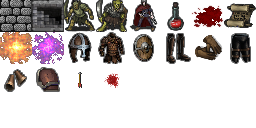
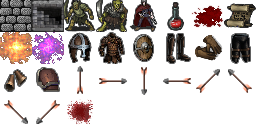
Fixed some bugs with projectile animations

diff --git a/components/fighter.py b/components/fighter.py
@@ -215,8 +215,8 @@ class Fighter:
     @property
     def effects_with_resistance_multiplier_modifiers(self):
         return [
-            effect for effect in self.status_effects
-            if effect.modifiers and effect.modifiers.get("resistance_multiplier_modifiers", {})
+            effect for effect in self.status_effects if effect.modifiers
+            and effect.modifiers.get("resistance_multiplier_modifiers", {})
         ]
 
     @property
@@ -263,7 +263,6 @@ class Fighter:
         return self.base_melee_cth_multiplier + modifier + self.calculate_effect_modifiers(
             "melee_chance_to_hit_multiplier_modifier")
 
-
     @property
     def ranged_chance_to_hit_modifier(self) -> int:
         if self.owner and self.owner.equipment:
@@ -302,8 +301,8 @@ class Fighter:
     def critical_hit_damage_multiplier(self) -> float:
         if self.owner and self.owner.equipment:
             modifier = (
-                self.luck["attribute_modifier"] *
-                0.05) + self.owner.equipment.critical_hit_damage_multiplier_modifier
+                self.luck["attribute_modifier"] * 0.05
+            ) + self.owner.equipment.critical_hit_damage_multiplier_modifier
         else:
             modifier = (self.luck["attribute_modifier"] * 0.05)
         return self.base_critical_hit_damage_multiplier + modifier + self.calculate_effect_modifiers(
@@ -479,8 +478,7 @@ class Fighter:
         armor = int(round(armor * self.armor_multiplier))
 
         # Prevent armor from going below zero, negative armor wouldn't make sense thematically
-        return max(
-            0, armor)
+        return max(0, armor)
 
     @property
     def armor_multiplier(self) -> float:
@@ -775,6 +773,8 @@ class Fighter:
 
         results = []
 
+        attack_hit = False
+
         for effect in self.status_effects:
             if effect.on_attack:
                 results.extend(effect.on_attack(effect, target))
@@ -946,6 +946,8 @@ class Fighter:
                 if not self.owner.ai:
                     self.energy += 25
 
+                attack_hit = True
+
             elif critical_seed <= self.critical_hit_chance and total_damage_dealt < 0:
 
                 results.append({
@@ -960,6 +962,8 @@ class Fighter:
 
                 if not self.owner.ai:
                     self.energy += 25
+
+                attack_hit = True
 
             elif total_damage_dealt > 0:
                 results.append({
@@ -983,6 +987,8 @@ class Fighter:
                     target.fighter.take_damage(rolled_damage_by_type,
                                                attacker=self,
                                                from_ranged=ranged))
+
+                attack_hit = True
             else:
                 results.append({
                     "message":
@@ -993,6 +999,7 @@ class Fighter:
                 for effect in self.status_effects:
                     if effect.on_attack_hit:
                         results.extend(effect.on_attack_hit(effect))
+                attack_hit = True
 
         elif critical_seed >= 0.95:
             results.append({
@@ -1072,6 +1079,8 @@ class Fighter:
                 if not self.owner.ai:
                     self.energy += 25
 
+                attack_hit = True
+
             elif critical_seed <= self.critical_hit_chance and total_damage_dealt < 0:
                 results.append({
                     "message":
@@ -1108,6 +1117,8 @@ class Fighter:
                     target.fighter.take_damage(rolled_damage_by_type,
                                                attacker=self,
                                                from_ranged=ranged))
+
+                attack_hit = True
             else:
                 results.append({
                     "message":
@@ -1128,4 +1139,7 @@ class Fighter:
             for effect in self.status_effects:
                 if effect.on_attack_miss:
                     results.extend(effect.on_attack_miss(effect))
+
+        results.append({"attack_hit": attack_hit})        
+    
         return results

diff --git a/item_functions.py b/item_functions.py
@@ -5,6 +5,17 @@ from components.ai import ConfusedMonster
 from components.status_effects import Fireball
 from gfx_effect import GFX_Effect
 from utils import disk
+import math
+
+NORTH_ARROW = 0x1012
+EAST_ARROW = 0x1013
+SOUTH_ARROW = 0x1014
+WEST_ARROW = 0x1015
+NORTHEAST_ARROW = 0x1016
+NORTHWEST_ARROW = 0x1017
+SOUTHEAST_ARROW = 0x1018
+SOUTHWEST_ARROW = 0x1019
+BLOOD_TILE = 0x101A
 
 
 def heal(*args, **kwargs):
@@ -226,27 +237,46 @@ def ranged_attack(*args, **kwargs):
                 tcod.line_iter(caster_term_x, caster_term_y, entity_term_x,
                                entity_term_y))
 
-            terminal_line = terminal_line[1::]
+            terminal_line = terminal_line[1::2]
 
             anim_delay = 0
+
+            radian_value = math.atan2(caster.y - entity.y, entity.x - caster.x)
+
+            if radian_value < 0:
+                radian_value = math.pi * 2 + radian_value
+
+            degree_value = round(radian_value * (180 / math.pi))
+
+            if 0 >= degree_value < 30 or 360 >= degree_value > 330:
+                arrow_tile = EAST_ARROW
+            elif 30 <= degree_value <= 60:
+                arrow_tile = NORTHEAST_ARROW
+            elif 60 < degree_value < 120:
+                arrow_tile = NORTH_ARROW
+            elif 120 <= degree_value <= 150:
+                arrow_tile = NORTHWEST_ARROW
+            elif 150 < degree_value < 210:
+                arrow_tile = WEST_ARROW
+            elif 210 <= degree_value <= 240:
+                arrow_tile = SOUTHWEST_ARROW
+            elif 240 < degree_value < 300:
+                arrow_tile = SOUTH_ARROW
+            elif 300 <= degree_value <= 330:
+                arrow_tile = SOUTHEAST_ARROW
 
             for coord in terminal_line:
 
                 game_map.gfx_effects.append(
                     GFX_Effect(coord[0],
                                coord[1],
-                               gfx_effect_tile=0x1012,
-                               duration=0.025,
+                               gfx_effect_tile=arrow_tile,
+                               duration=0.03,
                                delay=anim_delay,
                                projectile=True))
-                anim_delay += 0.025
+                anim_delay += 0.03
 
-            game_map.gfx_effects.append(
-                GFX_Effect(entity.x,
-                           entity.y,
-                           gfx_effect_tile=0x1013,
-                           duration=0.25,
-                           delay=anim_delay))
+            results.append({"ranged_anim_delay": anim_delay})
 
             break
     else:

diff --git a/render_functions.py b/render_functions.py
@@ -64,10 +64,6 @@ def render_all(entities, player, game_map, message_log, bar_width, panel_y,
 
     game_map.render_from_camera(camera)
 
-    terminal.layer(RenderLayer.ENTITIES.value)
-    for entity in entities_in_render_order:
-        entity.draw(camera, game_map)
-
     # This layer contains all stuff that goes over the entities,
     # such as targeting assistance and graphical effects
     terminal.layer(RenderLayer.OVERLAY.value)
@@ -82,15 +78,23 @@ def render_all(entities, player, game_map, message_log, bar_width, panel_y,
                 (term_x, term_y) = camera.map_to_term_coord(gfx.x, gfx.y)
                 terminal.put(term_x, term_y, gfx.gfx_effect_tile)
 
-    for x in range(-5, 6):
-        for y in range(-5, 6):
+    terminal.layer(RenderLayer.ENTITIES.value)
+
+    for entity in entities_in_render_order:
+        entity.draw(camera, game_map)
+    """
+    for x in range(-7, 8):
+        for y in range(-7, 8):
             new_x = player.x + x
             new_y = player.y + y
-            radian_value = math.atan2(new_y - player.y, new_x - player.x)
-            radian_value = str(round(radian_value, 3))
+            radian_value = math.atan2(player.y - new_y, new_x - player.x)
+            if radian_value < 0:
+                radian_value = math.pi * 2 + radian_value
+            degree_value = str(round(radian_value * (180 / math.pi)))
             (term_x, term_y) = camera.map_to_term_coord(new_x, new_y)
-            terminal.printf(term_x, term_y, radian_value)
-
+            terminal.printf(term_x, term_y, degree_value)
+    """
+    terminal.layer(RenderLayer.OVERLAY.value)
     if game_state == GameStates.TARGETING:
         from entity import get_blocking_entities_at_location
         terminal.composition(terminal.TK_ON)

diff --git a/turn_processing.py b/turn_processing.py
@@ -235,7 +235,6 @@ def player_turn(player, entities, camera, game_map, game_state,
 def process_player_turn_results(results, game):
     player = game.player
     fighter = game.player.fighter
-
     for player_turn_result in results:
         message = player_turn_result.get("message")
         dead_entity = player_turn_result.get("dead")
@@ -259,6 +258,8 @@ def process_player_turn_results(results, game):
         equip = player_turn_result.get("equip")
         heal = player_turn_result.get("heal")
         effect = player_turn_result.get("apply_effect")
+        anim_delay = player_turn_result.get("ranged_anim_delay")
+        attack_hit = player_turn_result.get("attack_hit")
 
         if new_mouse_coordinates:
             game.mouse_coordinates = new_mouse_coordinates
@@ -395,6 +396,12 @@ def process_player_turn_results(results, game):
 
         if action_consumed:
             fighter.actions -= 1
+
+        if anim_delay:
+            print("anim delay is", anim_delay)
+
+        if attack_hit:
+            print("attack hit is", attack_hit)
 
 
 def process_player_effect_results(results, game):

diff --git a/loader_functions/initialize_new_game.py b/loader_functions/initialize_new_game.py
@@ -83,10 +83,10 @@ def get_game_variables(constants):
         base_dodge=5,
         base_armor=0,
         base_melee_cth_modifier=100,
-        base_ranged_cth_modifier=0,
+        base_ranged_cth_modifier=100,
         base_speed=150,
         base_melee_attack_energy_bonus=0,
-        base_ranged_attack_energy_bonus=50,
+        base_ranged_attack_energy_bonus=0,
         base_movement_energy_bonus=0,
         base_natural_hp_regeneration_speed=50,
         base_melee_damage_dice={

diff --git a/death_functions.py b/death_functions.py
@@ -15,11 +15,9 @@ def kill_player(player, game):
 def kill_monster(monster, game):
     death_message = Message(f'The {monster.name.capitalize()} is killed!',
                             "orange")
-    monster.char = 0x1006
-    monster.color = "dark_red"
     monster.blocks = False
     monster.fighter = None
-    monster.ai = None
+    monster.ai.dead = True
     monster.name = 'remains of ' + monster.name
     monster.render_order = RenderOrder.CORPSE
     return death_message

diff --git a/engine.py b/engine.py
@@ -148,7 +148,15 @@ def play_game(game: Game) -> None:
 
         terminal.refresh()
 
-        game.tick()
+        if not game.game_map.gfx_effects:
+            dead_entities = [
+                entity for entity in game.entities
+                if entity.ai and entity.ai.dead
+            ]
+            for entity in dead_entities:
+                entity.char = 0x1006
+                entity.ai = None
+            game.tick()
 
         if game.exit:
             return

diff --git a/components/ai.py b/components/ai.py
@@ -18,6 +18,7 @@ class BasicMonster:
         self.extra_attacks = extra_attacks
         self.last_player_position = None
         self.scent_tile = None
+        self.dead = False
 
     def find_and_update_scent_tile(self, game_map):
         """
